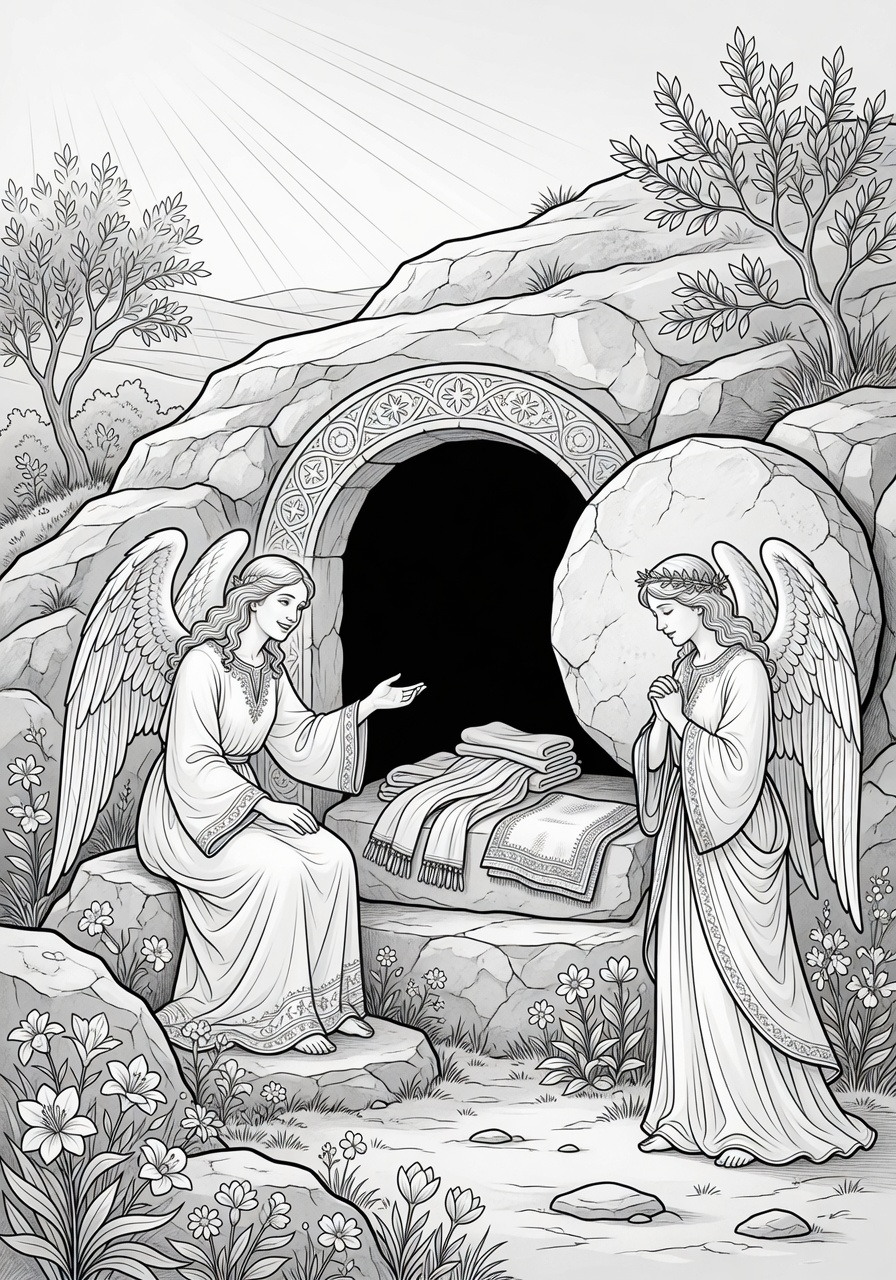
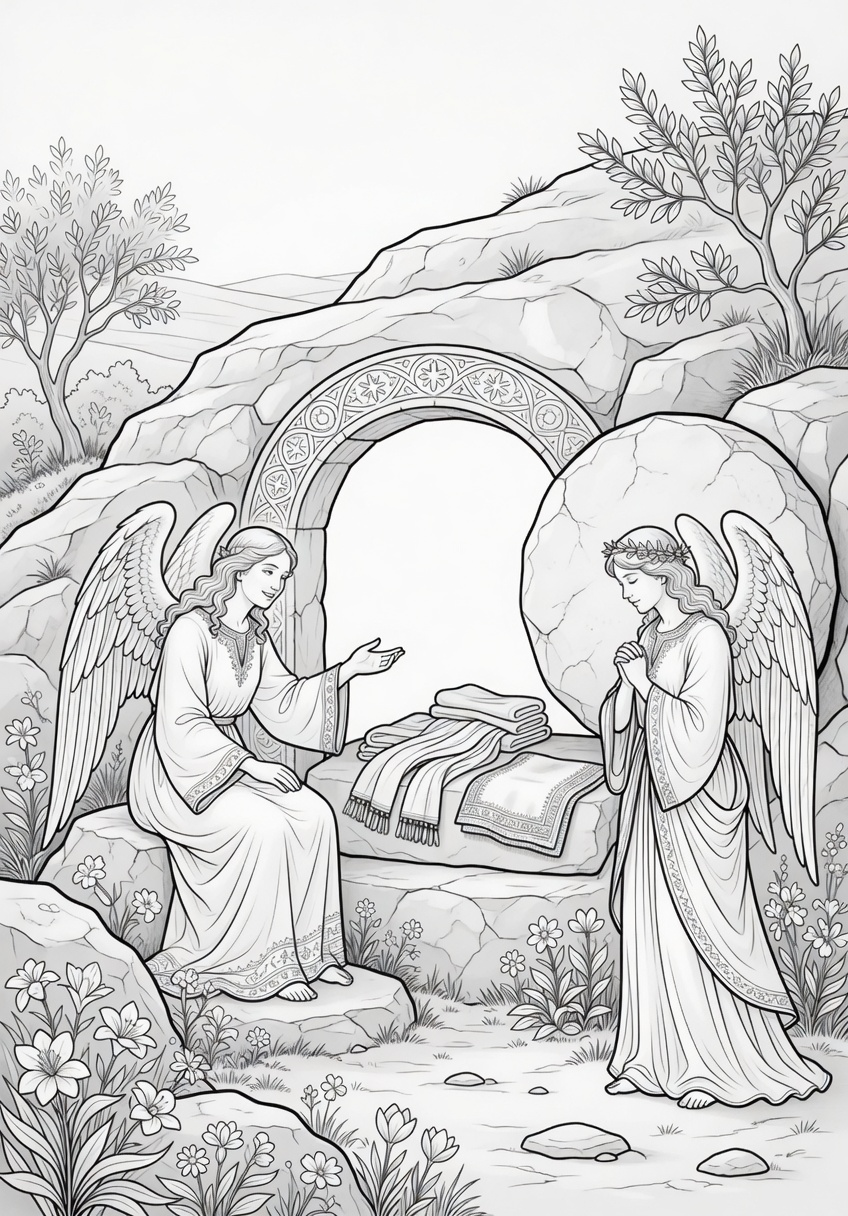
fix(kids): coloring pages match the story and stay blank to color
Checked all 82 Color & Tell stories. Tabitha now shows Peter, not
Jesus. Jesus Walks on Water starts with Jesus on the sea, not a filled
night sky. The empty tomb is a white cave kids can color. Captions
were lined up with the pictures they actually show.

diff --git a/test-site.js b/test-site.js
@@ -211,7 +211,7 @@ const pages = [
   { path: '/bible-study.html', name: 'Bible Studies', mustInclude: ['Bible', 'Study', 'study-card-title', 'Armor of God', 'reading-plan.html?study=armor-of-god', 'plans.html?plan=beatitudes', 'plans.html?plan=peacemakers', 'plans.html?plan=lordsprayer', 'plans.html?plan=lordsprayer-kids', 'plans.html?plan=sower', 'Parable of the Sower', 'plans.html?plan=sower-kids', 'Parable of the Sower for Kids', 'plans.html?plan=beatitudes-kids', 'study-card-gentle-note', 'Simple version for kids', 'Life Lessons from the Word', 'life-lessons.html', 'Scripture-soaked', 'church-sharing-kit.html', 'id="bible-study-church-sharing-note"', 'Church sharing kit', 'script.js?v=20260328studyhydrate'] },
   { path: '/pastor-toolkit.html', name: 'Pastor Toolkit', mustInclude: ['Pastor'] },
   { path: '/team-toolkit.html', name: 'Team Toolkit', mustInclude: ['Team', 'Ready-to-use packs'] },
-  { path: '/coloring.html', name: 'Kids Coloring', mustInclude: ['Hear the story', 'Coloring', 'Kids', 'tdb-cat-parent-tip', 'tdb-cat-root', 'data-tdb-scene-assets', 'Watch My Story', 'Print storyboard', 'color-and-tell.css?v=20260823desk49', 'All stories to color', 'color-and-tell.js?v=20260825desk61', '/vendor/jl-coloringBook.js', 'kids-history-heading', 'Earlier on this device', 'script.js?v=20260823desk49', 'Bible Story Library', 'Bible Loop Library', 'For the Little Ones', '/little-ones.html', 'at least one scene', 'Choose your story', 'Watch My Story', '/coloring-pages/creation-s1.svg', '/coloring-pages/baby-moses-s1.svg', '/coloring-pages/moses-red-sea-s1.svg', '/coloring-pages/jonah-s1.svg', '/coloring-pages/noah-s1.svg', '/coloring-pages/david-s1.svg', '/coloring-pages/jesus-storm-s1.svg', '/coloring-pages/daniel-lions-s1.svg', '/coloring-pages/daniel-lions-s4.svg', '/coloring-pages/feeding-5000-s1.svg', '/coloring-pages/jesus-children-s1.svg', '/coloring-pages/good-samaritan-s1.svg', '/coloring-pages/empty-tomb-s1.svg', '/coloring-pages/prodigal-son-s1.svg', '/coloring-pages/walks-on-water-s1.svg', '/coloring-pages/zacchaeus-s1.svg', '/coloring-pages/woman-at-well-s1.svg', '/coloring-pages/ruth-naomi-s1.svg', '/coloring-pages/lazarus-s1.svg', '/coloring-pages/lost-sheep-s1.svg', '/coloring-pages/jairus-daughter-s1.svg', '/coloring-pages/blind-man-s1.svg', '/coloring-pages/fishers-of-men-s1.svg', '/coloring-pages/wedding-cana-s1.svg', '/coloring-pages/mustard-seed-s1.svg', '/coloring-pages/the-sower-s1.svg', '/coloring-pages/triumphal-entry-s1.svg', '/coloring-pages/lost-coin-s1.svg', '/coloring-pages/healing-paralytic-s1.svg', '/coloring-pages/good-shepherd-s1.svg', '/coloring-pages/feeding-4000-s1.svg', '/coloring-pages/wise-foolish-builders-s1.svg', '/coloring-pages/the-talents-s1.svg', '/coloring-pages/persistent-widow-s1.svg', '/coloring-pages/healing-leper-s1.svg', '/coloring-pages/joseph-coat-s1.svg', '/coloring-pages/joseph-dreams-s1.svg', '/coloring-pages/burning-bush-s1.svg', '/coloring-pages/jericho-s1.svg', '/coloring-pages/gideon-fleece-s1.svg', '/coloring-pages/samson-s1.svg', '/coloring-pages/esther-s1.svg', '/coloring-pages/fiery-furnace-s1.svg', '/coloring-pages/abraham-isaac-s1.svg', '/coloring-pages/elijah-carmel-s1.svg', '/coloring-pages/naaman-s1.svg', '/coloring-pages/boy-samuel-s1.svg', '/coloring-pages/ten-lepers-s1.svg', '/coloring-pages/pharisee-tax-collector-s1.svg', '/coloring-pages/widows-mite-s1.svg', '/coloring-pages/centurion-servant-s1.svg', '/coloring-pages/abraham-sarah-s1.svg', '/coloring-pages/elisha-oil-s1.svg', '/coloring-pages/hannah-samuel-s1.svg', '/coloring-pages/david-jonathan-s1.svg', '/coloring-pages/rich-young-ruler-s1.svg', '/coloring-pages/pearl-great-price-s1.svg', '/coloring-pages/withered-hand-s1.svg', '/coloring-pages/unforgiving-servant-s1.svg', '/coloring-pages/boy-david-s1.svg', '/coloring-pages/elijah-ravens-s1.svg', '/coloring-pages/writing-on-wall-s1.svg', '/coloring-pages/ruth-boaz-s1.svg', '/coloring-pages/jesus-baptism-s1.svg', '/coloring-pages/emmaus-road-s1.svg', '/coloring-pages/jesus-washes-feet-s1.svg', '/coloring-pages/transfiguration-s1.svg', '/coloring-pages/jordan-crossing-s1.svg', '/coloring-pages/balaams-donkey-s1.svg', '/coloring-pages/elijah-taken-up-s1.svg', '/coloring-pages/nehemiah-walls-s1.svg', '/coloring-pages/jesus-tempted-s1.svg', '/coloring-pages/paul-silas-prison-s1.svg', '/coloring-pages/lydia-purple-s1.svg', '/coloring-pages/tabitha-dorcas-s1.svg', '/coloring-pages/nativity-s1.svg', '/coloring-pages/paul-shipwreck-s1.svg', '/coloring-pages/rahab-spies-s1.svg', '/coloring-pages/elijah-widow-s1.svg', '/coloring-pages/philip-ethiopian-s1.svg', '/coloring-pages/david-spares-saul-s1.svg'] },
+  { path: '/coloring.html', name: 'Kids Coloring', mustInclude: ['Hear the story', 'Coloring', 'Kids', 'tdb-cat-parent-tip', 'tdb-cat-root', 'data-tdb-scene-assets', 'Watch My Story', 'Print storyboard', 'color-and-tell.css?v=20260823desk49', 'All stories to color', 'color-and-tell.js?v=20260825desk62', '/vendor/jl-coloringBook.js', 'kids-history-heading', 'Earlier on this device', 'script.js?v=20260823desk49', 'Bible Story Library', 'Bible Loop Library', 'For the Little Ones', '/little-ones.html', 'at least one scene', 'Choose your story', 'Watch My Story', '/coloring-pages/creation-s1.svg', '/coloring-pages/baby-moses-s1.svg', '/coloring-pages/moses-red-sea-s1.svg', '/coloring-pages/jonah-s1.svg', '/coloring-pages/noah-s1.svg', '/coloring-pages/david-s1.svg', '/coloring-pages/jesus-storm-s1.svg', '/coloring-pages/daniel-lions-s1.svg', '/coloring-pages/daniel-lions-s4.svg', '/coloring-pages/feeding-5000-s1.svg', '/coloring-pages/jesus-children-s1.svg', '/coloring-pages/good-samaritan-s1.svg', '/coloring-pages/empty-tomb-s1.svg', '/coloring-pages/prodigal-son-s1.svg', '/coloring-pages/walks-on-water-s1.svg', '/coloring-pages/zacchaeus-s1.svg', '/coloring-pages/woman-at-well-s1.svg', '/coloring-pages/ruth-naomi-s1.svg', '/coloring-pages/lazarus-s1.svg', '/coloring-pages/lost-sheep-s1.svg', '/coloring-pages/jairus-daughter-s1.svg', '/coloring-pages/blind-man-s1.svg', '/coloring-pages/fishers-of-men-s1.svg', '/coloring-pages/wedding-cana-s1.svg', '/coloring-pages/mustard-seed-s1.svg', '/coloring-pages/the-sower-s1.svg', '/coloring-pages/triumphal-entry-s1.svg', '/coloring-pages/lost-coin-s1.svg', '/coloring-pages/healing-paralytic-s1.svg', '/coloring-pages/good-shepherd-s1.svg', '/coloring-pages/feeding-4000-s1.svg', '/coloring-pages/wise-foolish-builders-s1.svg', '/coloring-pages/the-talents-s1.svg', '/coloring-pages/persistent-widow-s1.svg', '/coloring-pages/healing-leper-s1.svg', '/coloring-pages/joseph-coat-s1.svg', '/coloring-pages/joseph-dreams-s1.svg', '/coloring-pages/burning-bush-s1.svg', '/coloring-pages/jericho-s1.svg', '/coloring-pages/gideon-fleece-s1.svg', '/coloring-pages/samson-s1.svg', '/coloring-pages/esther-s1.svg', '/coloring-pages/fiery-furnace-s1.svg', '/coloring-pages/abraham-isaac-s1.svg', '/coloring-pages/elijah-carmel-s1.svg', '/coloring-pages/naaman-s1.svg', '/coloring-pages/boy-samuel-s1.svg', '/coloring-pages/ten-lepers-s1.svg', '/coloring-pages/pharisee-tax-collector-s1.svg', '/coloring-pages/widows-mite-s1.svg', '/coloring-pages/centurion-servant-s1.svg', '/coloring-pages/abraham-sarah-s1.svg', '/coloring-pages/elisha-oil-s1.svg', '/coloring-pages/hannah-samuel-s1.svg', '/coloring-pages/david-jonathan-s1.svg', '/coloring-pages/rich-young-ruler-s1.svg', '/coloring-pages/pearl-great-price-s1.svg', '/coloring-pages/withered-hand-s1.svg', '/coloring-pages/unforgiving-servant-s1.svg', '/coloring-pages/boy-david-s1.svg', '/coloring-pages/elijah-ravens-s1.svg', '/coloring-pages/writing-on-wall-s1.svg', '/coloring-pages/ruth-boaz-s1.svg', '/coloring-pages/jesus-baptism-s1.svg', '/coloring-pages/emmaus-road-s1.svg', '/coloring-pages/jesus-washes-feet-s1.svg', '/coloring-pages/transfiguration-s1.svg', '/coloring-pages/jordan-crossing-s1.svg', '/coloring-pages/balaams-donkey-s1.svg', '/coloring-pages/elijah-taken-up-s1.svg', '/coloring-pages/nehemiah-walls-s1.svg', '/coloring-pages/jesus-tempted-s1.svg', '/coloring-pages/paul-silas-prison-s1.svg', '/coloring-pages/lydia-purple-s1.svg', '/coloring-pages/tabitha-dorcas-s1.svg', '/coloring-pages/nativity-s1.svg', '/coloring-pages/paul-shipwreck-s1.svg', '/coloring-pages/rahab-spies-s1.svg', '/coloring-pages/elijah-widow-s1.svg', '/coloring-pages/philip-ethiopian-s1.svg', '/coloring-pages/david-spares-saul-s1.svg'] },
   { path: '/family.html', name: 'Family hub', mustInclude: ['tdb-porch-verse-widget__hint', 'Same daily KJV as Home', 'id="tdbPorchVerseWidget"', 'Hide for today', 'tdb-porch-verse-widget', 'Read with breakdown', 'For Families', 'family-hub-hero--soar-dawn', 'id="familyPorchPathCross"', 'At the table tonight', 'tdb-porch-path-card__chip-row', 'kids/porch-read-sibling-friction.html', 'kids/porch-read-bedtime-hush.html', 'family-armor-little-ones.html', 'More quiet doors', 'kids/porch-read-soft-answer.html', 'kids/porch-read-do-not-fear.html', 'kids/porch-read-still-waters.html', 'kids/porch-read-mealtime-thankfulness.html', 'kids/porch-read-one-leper-came-back.html', 'kids/porch-read-busy-table.html', 'kids/porch-read-mustard-quiet.html', 'kids/porch-read-when-god-speaks-quietly.html', 'kids/porch-read-when-waiting-feels-long.html', 'kids/porch-read-suffer-little-children.html', 'kids/porch-read-forgiveness-after-fight.html', 'kids/porch-read-when-wrong-feels-loud.html', 'kids/porch-read-when-friendship-costs.html', 'kids/porch-read-narrow-way.html', 'plans.html?plan=parentweary', 'coloring.html">Color one story', 'id="family-hub-hero-heading"', 'styles.css?v=20260807-dig-always-open', 'id="family-quick-start-verse"', 'family-daily-verse-root', 'tdb-family-print-verse-btn', 'daily-verse-body', 'family-plan-progress-whisper', 'Each plan keeps its own day', 'family-plan-cards', 'id="family-prayer-wall"', 'A quiet place for your family', 'family-rhythm.html', 'family-armor.html', 'Family Armor &amp; Stories', 'daily-quiet-time.html', 'Family quiet time', 'family-activity-packs.html', 'family-youth-journal.html', 'plans.html?plan=familyworship', 'plans.html?plan=eveninguog', 'Evening in the University', 'evening-university-print.html', 'university-at-the-table-print.html', 'morning-evening-family-print.html', 'one-week-in-the-university-print.html', 'plans.html?plan=psalmscomfortfamily', 'plans.html?plan=beatitudes-kids', 'Beatitudes for Kids', 'plans.html?plan=lordsprayer-kids', 'tdb-plan-lordsprayer-kids-day', 'plans.html?plan=sower', 'Parable of the Sower for Kids', 'plans.html?plan=sower-kids', 'tdb-plan-sower-kids-day', 'Your family has walked', 'Kids play door', 'For the Little Ones', '/little-ones.html', 'Bible Loop Library', 'Bible Story Library', 'ages 3&ndash;4 with a grown-up', 'id="family-kids-plans-guide-heading"', 'How to use Plans with your kids', 'id="family-homeschool-sharing-note"', 'church-sharing-kit.html#csk-homesch', 'church-sharing-kit.html#csk-homesch-tracker', 'Homeschooling or co-op', 'id="family-devotion-rhythm-heading"', 'A simple family devotion rhythm', 'church-sharing-kit.html#csk-family-devotion-expanded', 'The site will remember where we are', 'id="family-year-round-rhythm"', 'id="family-year-round-tools"', 'family-yrt-votm-line', 'Year-round tools', 'year-at-a-glance.html', 'plans.html?plan=summer-seeds', 'church-sharing-kit.html#csk-homeschool-year-round', 'id="family-year-round-memory"', 'id="memory-verses"', 'memory-verses-shell', 'memory-section', 'memory-verses.js', 'yearly-rhythm.html#yr-memory', 'Year-round &amp; Memory Verses', 'church-sharing-kit.html#csk-memory-verse-cards', 'yearly-rhythm.html#yr-print-planners', 'church-sharing-kit.html#csk-print-planners', 'yearly-rhythm.html', 'Year-round rhythm', 'church-sharing-kit.html#csk-memory-verse-activities', 'Gentle memory verse activities', 'memory-verse-activities-print.html', 'tdb-cache-hygiene:', 'family-hub-onpage-nav', '2-minute start'] },
   { path: '/little-ones.html', name: 'For the Little Ones', mustInclude: ['For the little ones', 'One gentle place to land with your little ones', 'Today&rsquo;s verse for little hearts', 'id="little-ones-verse-root"', 'id="little-ones-verse-ref"', 'id="little-ones-verse-text"', 'Read aloud', 'Story &amp; color together', 'Jesus &amp; the children', 'Good Shepherd', 'Print this coloring page', 'Gentle starting places by age', 'Ages 3–4', 'Family Armor lite', 'family-armor-little-ones.html', 'little-ones.js?v=20260415littleones', 'kids-corner-daily-verse.js?v=20260408quickstart', 'rel="canonical" href="https://todaysdailybattle.com/little-ones.html"', 'little-ones-onpage-nav', 'id="little-ones-more-quiet"'] },
   { path: '/family-armor.html', name: 'Family Armor', mustInclude: ['Family Armor &amp; Stories', 'id="familyArmorStoryFirstPath"', 'family-armor-hero-verse-frame', 'id="family-armor-hero-ref"', 'daily-verse-body', 'whole armour of God', 'Ephesians 6:10', 'family-armor-pieces-grid', 'Praying always', 'Open the Family Armor workspace', '/#armor-builder-btn', 'kids/corner.html', 'family.html', 'curriculum.html', 'aria-current="page"', 'href="/family-armor.html"', 'family-armor-trust-strip', 'stays on this device', 'family-armor-little-ones.html#fa-littles-morning-reset', 'Morning reset', 'family-armor-little-ones.html#fa-littles-bedtime-prayer', 'Bedtime prayer'] },

diff --git a/dist/kids/color-and-tell.js b/dist/kids/color-and-tell.js
@@ -641,7 +641,7 @@
   // TDB_SCENE_ART_END
 
   /** Returns the best available line-art src for a scene (raster preferred). */
-  var ART_CACHE = '20260825desk61';
+  var ART_CACHE = '20260825desk62';
   function bestSceneSrc(scene) {
     if (!scene || !scene.src) return '';
     var src = (TDB_SCENE_ART && TDB_SCENE_ART[scene.src]) || scene.src;
@@ -825,8 +825,8 @@
         {
           id: '1',
           src: '/coloring-pages/creation-s1.svg',
-          alt: 'God speaks light into the dark on the first day of Creation',
-          caption: 'God speaks light into the dark.',
+          alt: 'The world God made — people, animals, trees, and the sun',
+          caption: 'God made the heavens and the earth, and it was very good.',
           verse: '“Let there be light.” — Genesis 1:3 (KJV)'
         },
         {
@@ -1232,8 +1232,8 @@
         {
           id: '1',
           src: '/coloring-pages/empty-tomb-s1.svg',
-          alt: 'The sealed tomb with guards',
-          caption: 'The tomb is sealed; soldiers keep watch.',
+          alt: 'The empty tomb, the rolled stone, and the folded grave clothes',
+          caption: 'He is not here: for he is risen, as he said.',
           verse: '“So they went, and made the sepulchre sure.” — Matthew 27:66 (KJV)'
         },
         {
@@ -1276,23 +1276,23 @@
         {
           id: '2',
           src: '/coloring-pages/prodigal-son-s2.svg',
-          alt: 'The prodigal son in hunger among swine',
-          caption: 'He wastes all and is in want.',
-          verse: '“He began to be in want.” — Luke 15:14 (KJV)'
+          alt: 'The younger son wasting his substance in a far country',
+          caption: 'He took his journey into a far country, and there wasted his substance with riotous living.',
+          verse: '“And not many days after the younger son gathered all together, and took his journey into a far country, and there wasted his substance with riotous living.” — Luke 15:13 (KJV)'
         },
         {
           id: '3',
           src: '/coloring-pages/prodigal-son-s3.svg',
-          alt: 'The father running to welcome his son',
-          caption: 'He comes home; the father runs to him.',
-          verse: '“His father saw him, and had compassion, and ran.” — Luke 15:20 (KJV)'
+          alt: 'The prodigal son in hunger among the swine',
+          caption: 'He would fain have filled his belly with the husks that the swine did eat.',
+          verse: '“And he would fain have filled his belly with the husks that the swine did eat: and no man gave unto him.” — Luke 15:16 (KJV)'
         },
         {
           id: '4',
           src: '/coloring-pages/prodigal-son-s4.svg',
-          alt: 'A joyful welcome feast for the returned son',
-          caption: 'Lost, and is found — celebrate mercy.',
-          verse: '“This my son was dead, and is alive again.” — Luke 15:24 (KJV)'
+          alt: 'The father runs and welcomes his son home',
+          caption: 'When he was yet a great way off, his father saw him, and had compassion, and ran.',
+          verse: '“And he arose, and came to his father. But when he was yet a great way off, his father saw him, and had compassion, and ran, and fell on his neck, and kissed him.” — Luke 15:20 (KJV)'
         }
       ]
     },
@@ -1313,23 +1313,23 @@
         {
           id: '2',
           src: '/coloring-pages/walks-on-water-s2.svg',
-          alt: 'Peter stepping out of the boat',
-          caption: 'Peter steps out toward Jesus.',
-          verse: '“Lord, if it be thou, bid me come unto thee.” — Matthew 14:28 (KJV)'
+          alt: 'The disciples see Jesus walking on the sea',
+          caption: 'Be of good cheer; it is I; be not afraid.',
+          verse: '“Be of good cheer; it is I; be not afraid.” — Matthew 14:27 (KJV)'
         },
         {
           id: '3',
           src: '/coloring-pages/walks-on-water-s3.svg',
-          alt: 'Jesus catching Peter on the water',
-          caption: 'Fear rises; Jesus reaches for him.',
-          verse: '“O thou of little faith, wherefore didst thou doubt?” — Matthew 14:31 (KJV)'
+          alt: 'Peter stepping out of the boat toward Jesus',
+          caption: 'Peter walks on the water to go to Jesus.',
+          verse: '“And when Peter was come down out of the ship, he walked on the water, to go to Jesus.” — Matthew 14:29 (KJV)'
         },
         {
           id: '4',
           src: '/coloring-pages/walks-on-water-s4.svg',
-          alt: 'Jesus and Peter safe in the boat',
-          caption: 'They worship Him in the boat.',
-          verse: '“Of a truth thou art the Son of God.” — Matthew 14:33 (KJV)'
+          alt: 'Jesus stretching forth his hand and catching Peter',
+          caption: 'Jesus stretched forth his hand, and caught him.',
+          verse: '“And immediately Jesus stretched forth his hand, and caught him, and said unto him, O thou of little faith, wherefore didst thou doubt?” — Matthew 14:31 (KJV)'
         }
       ]
     },
@@ -2379,9 +2379,9 @@
         {
           id: '1',
           src: '/coloring-pages/abraham-isaac-s1.svg',
-          alt: 'God calls Abraham',
-          caption: 'Take now thy son, thine only son Isaac, whom thou.',
-          verse: '“And Abraham called the name of that place Jehovahjireh.” — Genesis 22:2 (KJV)'
+          alt: 'Abraham and Isaac walk with the wood; a ram waits in the thicket',
+          caption: 'Abraham took the wood of the burnt offering, and laid it upon Isaac his son.',
+          verse: '“And Abraham took the wood of the burnt offering, and laid it upon Isaac his son; and he took the fire in his hand, and a knife; and they went both of them together.” — Genesis 22:6 (KJV)'
         },
         {
           id: '2',
@@ -2675,9 +2675,9 @@
         {
           id: '1',
           src: '/coloring-pages/abraham-sarah-s1.svg',
-          alt: 'Three visitors promise a son',
-          caption: 'I will certainly return unto thee according to the.',
-          verse: '“Sarah laughed within herself, saying, After I am waxed old shall.” — Genesis 18:10 (KJV)'
+          alt: 'Abraham and Sarah by their tent under the stars',
+          caption: 'Look now toward heaven, and tell the stars: so shall thy seed be.',
+          verse: '“And he brought him forth abroad, and said, Look now toward heaven, and tell the stars, if thou be able to number them: and he said unto him, So shall thy seed be.” — Genesis 15:5 (KJV)'
         },
         {
           id: '2',
@@ -2749,9 +2749,9 @@
         {
           id: '1',
           src: '/coloring-pages/hannah-samuel-s1.svg',
-          alt: 'Hannah prays in bitterness of soul',
-          caption: 'She was in bitterness of soul.',
-          verse: '“1.” — 1 Samuel 1:10-11 (KJV)'
+          alt: 'Hannah brings young Samuel to Eli at the house of the LORD',
+          caption: 'For this child I prayed; and the LORD hath given me my petition which I asked of him.',
+          verse: '“For this child I prayed; and the LORD hath given me my petition which I asked of him.” — 1 Samuel 1:27 (KJV)'
         },
         {
           id: '2',
@@ -2971,9 +2971,9 @@
         {
           id: '1',
           src: '/coloring-pages/boy-david-s1.svg',
-          alt: 'Samuel comes to Jesse\'s house',
-          caption: 'Samuel came to Bethlehem and sanctified Jesse and.',
-          verse: '“1.” — 1 Samuel 16:4-5 (KJV)'
+          alt: 'Young David keeps sheep and plays the harp',
+          caption: 'There remaineth yet the youngest, and, behold, he keepeth the sheep.',
+          verse: '“And Samuel said unto Jesse, Are here all thy children? And he said, There remaineth yet the youngest, and, behold, he keepeth the sheep.” — 1 Samuel 16:11 (KJV)'
         },
         {
           id: '2',
@@ -3526,9 +3526,9 @@
         {
           id: '1',
           src: '/coloring-pages/tabitha-dorcas-s1.svg',
-          alt: 'Dorcas helps the poor with coats',
-          caption: 'This woman was full of good works and almsdeeds.',
-          verse: '“Acts 9.” — Acts 9:36 (KJV)'
+          alt: 'Peter prays and Tabitha sits up; the widows show the coats she made',
+          caption: 'Peter kneeled down, and prayed; and turning him to the body said, Tabitha, arise.',
+          verse: '“But Peter put them all forth, and kneeled down, and prayed; and turning him to the body said, Tabitha, arise.” — Acts 9:40 (KJV)'
         },
         {
           id: '2',

diff --git a/kids/color-and-tell.js b/kids/color-and-tell.js
@@ -641,7 +641,7 @@
   // TDB_SCENE_ART_END
 
   /** Returns the best available line-art src for a scene (raster preferred). */
-  var ART_CACHE = '20260825desk61';
+  var ART_CACHE = '20260825desk62';
   function bestSceneSrc(scene) {
     if (!scene || !scene.src) return '';
     var src = (TDB_SCENE_ART && TDB_SCENE_ART[scene.src]) || scene.src;
@@ -825,8 +825,8 @@
         {
           id: '1',
           src: '/coloring-pages/creation-s1.svg',
-          alt: 'God speaks light into the dark on the first day of Creation',
-          caption: 'God speaks light into the dark.',
+          alt: 'The world God made — people, animals, trees, and the sun',
+          caption: 'God made the heavens and the earth, and it was very good.',
           verse: '“Let there be light.” — Genesis 1:3 (KJV)'
         },
         {
@@ -1232,8 +1232,8 @@
         {
           id: '1',
           src: '/coloring-pages/empty-tomb-s1.svg',
-          alt: 'The sealed tomb with guards',
-          caption: 'The tomb is sealed; soldiers keep watch.',
+          alt: 'The empty tomb, the rolled stone, and the folded grave clothes',
+          caption: 'He is not here: for he is risen, as he said.',
           verse: '“So they went, and made the sepulchre sure.” — Matthew 27:66 (KJV)'
         },
         {
@@ -1276,23 +1276,23 @@
         {
           id: '2',
           src: '/coloring-pages/prodigal-son-s2.svg',
-          alt: 'The prodigal son in hunger among swine',
-          caption: 'He wastes all and is in want.',
-          verse: '“He began to be in want.” — Luke 15:14 (KJV)'
+          alt: 'The younger son wasting his substance in a far country',
+          caption: 'He took his journey into a far country, and there wasted his substance with riotous living.',
+          verse: '“And not many days after the younger son gathered all together, and took his journey into a far country, and there wasted his substance with riotous living.” — Luke 15:13 (KJV)'
         },
         {
           id: '3',
           src: '/coloring-pages/prodigal-son-s3.svg',
-          alt: 'The father running to welcome his son',
-          caption: 'He comes home; the father runs to him.',
-          verse: '“His father saw him, and had compassion, and ran.” — Luke 15:20 (KJV)'
+          alt: 'The prodigal son in hunger among the swine',
+          caption: 'He would fain have filled his belly with the husks that the swine did eat.',
+          verse: '“And he would fain have filled his belly with the husks that the swine did eat: and no man gave unto him.” — Luke 15:16 (KJV)'
         },
         {
           id: '4',
           src: '/coloring-pages/prodigal-son-s4.svg',
-          alt: 'A joyful welcome feast for the returned son',
-          caption: 'Lost, and is found — celebrate mercy.',
-          verse: '“This my son was dead, and is alive again.” — Luke 15:24 (KJV)'
+          alt: 'The father runs and welcomes his son home',
+          caption: 'When he was yet a great way off, his father saw him, and had compassion, and ran.',
+          verse: '“And he arose, and came to his father. But when he was yet a great way off, his father saw him, and had compassion, and ran, and fell on his neck, and kissed him.” — Luke 15:20 (KJV)'
         }
       ]
     },
@@ -1313,23 +1313,23 @@
         {
           id: '2',
           src: '/coloring-pages/walks-on-water-s2.svg',
-          alt: 'Peter stepping out of the boat',
-          caption: 'Peter steps out toward Jesus.',
-          verse: '“Lord, if it be thou, bid me come unto thee.” — Matthew 14:28 (KJV)'
+          alt: 'The disciples see Jesus walking on the sea',
+          caption: 'Be of good cheer; it is I; be not afraid.',
+          verse: '“Be of good cheer; it is I; be not afraid.” — Matthew 14:27 (KJV)'
         },
         {
           id: '3',
           src: '/coloring-pages/walks-on-water-s3.svg',
-          alt: 'Jesus catching Peter on the water',
-          caption: 'Fear rises; Jesus reaches for him.',
-          verse: '“O thou of little faith, wherefore didst thou doubt?” — Matthew 14:31 (KJV)'
+          alt: 'Peter stepping out of the boat toward Jesus',
+          caption: 'Peter walks on the water to go to Jesus.',
+          verse: '“And when Peter was come down out of the ship, he walked on the water, to go to Jesus.” — Matthew 14:29 (KJV)'
         },
         {
           id: '4',
           src: '/coloring-pages/walks-on-water-s4.svg',
-          alt: 'Jesus and Peter safe in the boat',
-          caption: 'They worship Him in the boat.',
-          verse: '“Of a truth thou art the Son of God.” — Matthew 14:33 (KJV)'
+          alt: 'Jesus stretching forth his hand and catching Peter',
+          caption: 'Jesus stretched forth his hand, and caught him.',
+          verse: '“And immediately Jesus stretched forth his hand, and caught him, and said unto him, O thou of little faith, wherefore didst thou doubt?” — Matthew 14:31 (KJV)'
         }
       ]
     },
@@ -2379,9 +2379,9 @@
         {
           id: '1',
           src: '/coloring-pages/abraham-isaac-s1.svg',
-          alt: 'God calls Abraham',
-          caption: 'Take now thy son, thine only son Isaac, whom thou.',
-          verse: '“And Abraham called the name of that place Jehovahjireh.” — Genesis 22:2 (KJV)'
+          alt: 'Abraham and Isaac walk with the wood; a ram waits in the thicket',
+          caption: 'Abraham took the wood of the burnt offering, and laid it upon Isaac his son.',
+          verse: '“And Abraham took the wood of the burnt offering, and laid it upon Isaac his son; and he took the fire in his hand, and a knife; and they went both of them together.” — Genesis 22:6 (KJV)'
         },
         {
           id: '2',
@@ -2675,9 +2675,9 @@
         {
           id: '1',
           src: '/coloring-pages/abraham-sarah-s1.svg',
-          alt: 'Three visitors promise a son',
-          caption: 'I will certainly return unto thee according to the.',
-          verse: '“Sarah laughed within herself, saying, After I am waxed old shall.” — Genesis 18:10 (KJV)'
+          alt: 'Abraham and Sarah by their tent under the stars',
+          caption: 'Look now toward heaven, and tell the stars: so shall thy seed be.',
+          verse: '“And he brought him forth abroad, and said, Look now toward heaven, and tell the stars, if thou be able to number them: and he said unto him, So shall thy seed be.” — Genesis 15:5 (KJV)'
         },
         {
           id: '2',
@@ -2749,9 +2749,9 @@
         {
           id: '1',
           src: '/coloring-pages/hannah-samuel-s1.svg',
-          alt: 'Hannah prays in bitterness of soul',
-          caption: 'She was in bitterness of soul.',
-          verse: '“1.” — 1 Samuel 1:10-11 (KJV)'
+          alt: 'Hannah brings young Samuel to Eli at the house of the LORD',
+          caption: 'For this child I prayed; and the LORD hath given me my petition which I asked of him.',
+          verse: '“For this child I prayed; and the LORD hath given me my petition which I asked of him.” — 1 Samuel 1:27 (KJV)'
         },
         {
           id: '2',
@@ -2971,9 +2971,9 @@
         {
           id: '1',
           src: '/coloring-pages/boy-david-s1.svg',
-          alt: 'Samuel comes to Jesse\'s house',
-          caption: 'Samuel came to Bethlehem and sanctified Jesse and.',
-          verse: '“1.” — 1 Samuel 16:4-5 (KJV)'
+          alt: 'Young David keeps sheep and plays the harp',
+          caption: 'There remaineth yet the youngest, and, behold, he keepeth the sheep.',
+          verse: '“And Samuel said unto Jesse, Are here all thy children? And he said, There remaineth yet the youngest, and, behold, he keepeth the sheep.” — 1 Samuel 16:11 (KJV)'
         },
         {
           id: '2',
@@ -3526,9 +3526,9 @@
         {
           id: '1',
           src: '/coloring-pages/tabitha-dorcas-s1.svg',
-          alt: 'Dorcas helps the poor with coats',
-          caption: 'This woman was full of good works and almsdeeds.',
-          verse: '“Acts 9.” — Acts 9:36 (KJV)'
+          alt: 'Peter prays and Tabitha sits up; the widows show the coats she made',
+          caption: 'Peter kneeled down, and prayed; and turning him to the body said, Tabitha, arise.',
+          verse: '“But Peter put them all forth, and kneeled down, and prayed; and turning him to the body said, Tabitha, arise.” — Acts 9:40 (KJV)'
         },
         {
           id: '2',

diff --git a/coloring.html b/coloring.html
@@ -378,7 +378,7 @@
   <script defer src="kids/kids-gentle-shepherd.js?v=20260810ears2"></script>
   <script defer src="/vendor/jl-coloringBook.js?v=20260825desk58"></script>
   <script defer src="/kids/kids-gentle-journey.js?v=20260503goal365"></script>
-  <script defer src="kids/color-and-tell.js?v=20260825desk61"></script>
+  <script defer src="kids/color-and-tell.js?v=20260825desk62"></script>
   <script type="module" src="config.js"></script>
   <script nonce="tdb2025s" defer src="/footer-build-stamp.js?v=20260820polish"></script>
   <script type="module" src="script.js?v=20260823desk49" data-cfasync="false"></script>

diff --git a/dist/coloring.html b/dist/coloring.html
@@ -378,7 +378,7 @@
   <script defer src="kids/kids-gentle-shepherd.js?v=20260810ears2"></script>
   <script defer src="/vendor/jl-coloringBook.js?v=20260825desk58"></script>
   <script defer src="/kids/kids-gentle-journey.js?v=20260503goal365"></script>
-  <script defer src="kids/color-and-tell.js?v=20260825desk61"></script>
+  <script defer src="kids/color-and-tell.js?v=20260825desk62"></script>
   <script type="module" src="config.js"></script>
   <script nonce="tdb2025s" defer src="/footer-build-stamp.js?v=20260820polish"></script>
   <script type="module" src="script.js?v=20260823desk49" data-cfasync="false"></script>
